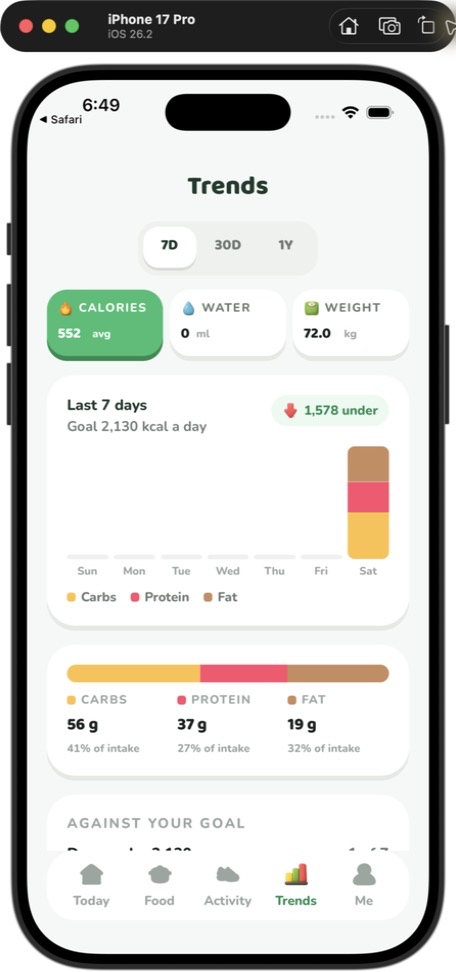
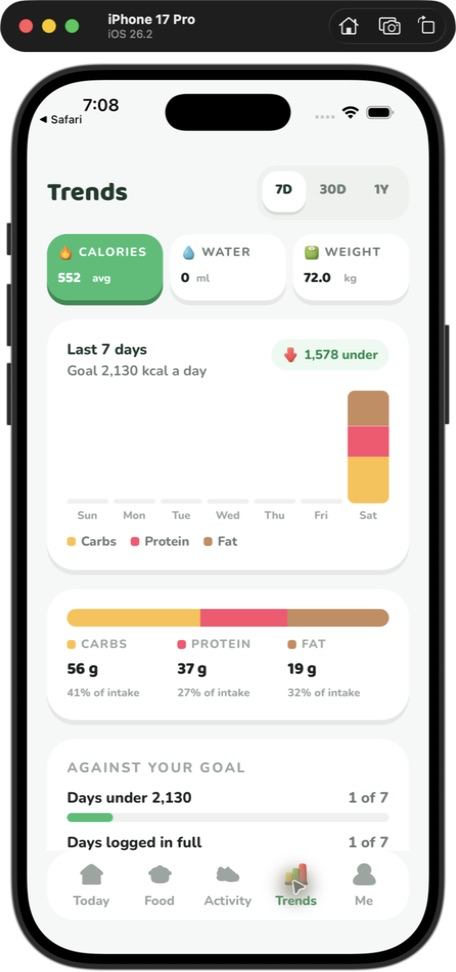
Restore left-aligned root page titles

diff --git a/apps/mobile/src/features/shared/ScreenTitle.tsx b/apps/mobile/src/features/shared/ScreenTitle.tsx
@@ -1,5 +1,5 @@
-import { type ReactNode, useCallback, useState } from 'react'
-import { type LayoutChangeEvent, View } from 'react-native'
+import type { ReactNode } from 'react'
+import { View } from 'react-native'
 
 import { cn, Text } from '@/ui'
 
@@ -23,44 +23,24 @@ export type ScreenTitleProps = {
 /**
  * The title row at the top of a root screen.
  *
- * `AppBar` is the pushed-screen equivalent: it carries a back button, while a
- * root screen has neither and uses a size larger. Both centre the title against
- * the screen, not merely the room left between their controls.
+ * `AppBar` is the pushed-screen equivalent: it centres its title and carries a
+ * back button. A root screen has neither, so its larger title stays left aligned.
  */
 export function ScreenTitle({ title, leading, trailing, className }: ScreenTitleProps) {
-  const [leadingWidth, setLeadingWidth] = useState(0)
-  const [trailingWidth, setTrailingWidth] = useState(0)
-  const sideWidth = Math.max(leadingWidth, trailingWidth)
-
-  const measureLeading = useCallback((event: LayoutChangeEvent) => {
-    setLeadingWidth(event.nativeEvent.layout.width)
-  }, [])
-  const measureTrailing = useCallback((event: LayoutChangeEvent) => {
-    setTrailingWidth(event.nativeEvent.layout.width)
-  }, [])
-
   return (
-    <View className={cn('flex-row items-center gap-md pt-1', className)} accessibilityRole="header">
-      <View
-        testID="screen-title-leading-slot"
-        style={{ minWidth: sideWidth }}
-        className="items-start"
-      >
-        {leading ? (
-          <View testID="screen-title-leading-measure" onLayout={measureLeading}>
-            {leading}
-          </View>
-        ) : null}
-      </View>
+    <View
+      className={cn('flex-row items-center justify-between gap-md pt-1', className)}
+      accessibilityRole="header"
+    >
+      {leading}
       {/*
-        Shrinks rather than ellipsises, and centres within symmetric side slots.
+        Shrinks rather than ellipsises.
 
-        The wider control decides BOTH slot widths, so a search button or streak
-        pill cannot push the title away from the screen's true centre. What goes
-        in here is sometimes a date. "8月17日 周一" at the largest Dynamic Type
-        setting did not fit and came back as "8月17日…", which is a title that has
-        stopped saying which day it is about. A point or two smaller is legible;
-        a truncated date is not.
+        The title shares its row with a streak pill and a view toggle, and what
+        goes in it is sometimes a date. "8月17日 周一" at the largest Dynamic Type
+        setting did not fit and came back as "8月17日…", which is a title that
+        has stopped saying which day it is about. A point or two smaller is
+        legible; a truncated date is not.
 
         Safe beside `adjustsFontSizeToFit` because `Text` deliberately sets no
         `lineHeight` when it sees that prop — the React Native bug `StatTile`
@@ -68,24 +48,14 @@ export function ScreenTitle({ title, leading, trailing, className }: ScreenTitle
       */}
       <Text
         variant="screenTitle"
-        className="min-w-0 flex-1 text-center"
+        className="flex-1 text-left"
         numberOfLines={1}
         adjustsFontSizeToFit
         minimumFontScale={0.85}
       >
         {title}
       </Text>
-      <View
-        testID="screen-title-trailing-slot"
-        style={{ minWidth: sideWidth }}
-        className="items-end"
-      >
-        {trailing ? (
-          <View testID="screen-title-trailing-measure" onLayout={measureTrailing}>
-            {trailing}
-          </View>
-        ) : null}
-      </View>
+      {trailing}
     </View>
   )
 }

diff --git a/apps/mobile/app/(tabs)/trends.tsx b/apps/mobile/app/(tabs)/trends.tsx
@@ -66,31 +66,36 @@ export default function TrendsScreen() {
 
   return (
     <Screen>
-      <ScreenTitle title={t('progress:title')} />
-      <SegmentedControl
-        options={TREND_RANGES.map((value) => ({
-          value,
-          label: t(RANGE_KEY[value]),
-        }))}
-        value={range}
-        /**
-         * A free account sees the week and nothing else. The control keeps all
-         * three segments and refuses the two it cannot serve rather than hiding
-         * them: a hidden option is a feature nobody knows they are missing, and
-         * a greyed-out one gives them nowhere to go.
-         *
-         * Seven days is not an arbitrary slice: the strip on Today is a week and
-         * the review is a week, so a free user is shown the week and offered the
-         * shape only a month or a year can carry.
-         */
-        onChange={(next) => {
-          if (next !== '7d' && !requirePro('trend_range')) return
-          setRange(next)
-        }}
-        accessibilityLabel={t('progress:range.label')}
-        // Its own centred row leaves the screen title genuinely centred while
-        // keeping all three translated labels enough room to remain legible.
-        className="w-[180px] self-center"
+      <ScreenTitle
+        title={t('progress:title')}
+        trailing={
+          <SegmentedControl
+            options={TREND_RANGES.map((value) => ({
+              value,
+              label: t(RANGE_KEY[value]),
+            }))}
+            value={range}
+            /**
+             * A free account sees the week and nothing else. The control keeps
+             * all three segments and refuses the two it cannot serve rather than
+             * hiding them: a hidden option is a feature nobody knows they are
+             * missing, and a greyed-out one gives them nowhere to go.
+             *
+             * Seven days is not an arbitrary slice: the strip on Today is a week
+             * and the review is a week, so a free user is shown the week and
+             * offered the shape only a month or a year can carry.
+             */
+            onChange={(next) => {
+              if (next !== '7d' && !requirePro('trend_range')) return
+              setRange(next)
+            }}
+            accessibilityLabel={t('progress:range.label')}
+            // Sized rather than left to grow: the control and title share a
+            // row, and a segmented control that takes what it needs would push
+            // "Trends" to an ellipsis on a narrow phone.
+            className="w-[152px]"
+          />
+        }
       />
 
       {/* The same gate as the panel below. The tiles are the tab control so

diff --git a/apps/mobile/src/features/shared/__tests__/screen-title.test.tsx b/apps/mobile/src/features/shared/__tests__/screen-title.test.tsx
@@ -1,9 +1,9 @@
 import { View } from 'react-native'
 
-import { act, render, screen } from '@/test-utils'
+import { render, screen } from '@/test-utils'
 import { ScreenTitle } from '../ScreenTitle'
 
-it('reserves the wider control width on both sides of a root title', async () => {
+it('keeps a root title left aligned beside its controls', async () => {
   await render(
     <ScreenTitle
       title="My foods"
@@ -17,15 +17,5 @@ it('reserves the wider control width on both sides of a root title', async () =>
     />,
   )
 
-  await act(() => {
-    screen.getByTestId('screen-title-leading-measure').props.onLayout({
-      nativeEvent: { layout: { width: 44 } },
-    })
-    screen.getByTestId('screen-title-trailing-measure').props.onLayout({
-      nativeEvent: { layout: { width: 96 } },
-    })
-  })
-
-  expect(screen.getByTestId('screen-title-leading-slot')).toHaveStyle({ minWidth: 96 })
-  expect(screen.getByTestId('screen-title-trailing-slot')).toHaveStyle({ minWidth: 96 })
+  expect(screen.getByText('My foods')).toHaveProp('className', expect.stringContaining('text-left'))
 })

diff --git a/README.md b/README.md
@@ -781,12 +781,10 @@ paywalls) and carry a cross. Every pushed page passes that bar through
 trailing control remain visible while the body moves. `AppBar` reserves the
 wider control width on both sides, keeping its one or two-line title centred on
 the screen even when a trailing action is wider than Back. The native header is
-off everywhere. A tab carries a `ScreenTitle` instead, because there is nothing
-behind it to go back to. It uses the same symmetric slots, so root titles stay
-centred beside search, date and status controls too. Wide controls, such as the
-Trends range selector, take a centred row below the title rather than squeezing
-it aside. The two paywall routes share `PaywallOffer`, whose
-centred wordmark and close control are likewise fixed outside its `Screen`.
+off everywhere. A tab carries a left-aligned `ScreenTitle` instead, because
+there is nothing behind it to go back to and the larger root heading establishes
+the page hierarchy. The two paywall routes share `PaywallOffer`, whose centred
+wordmark and close control are likewise fixed outside its `Screen`.
 
 The logged-food page is the full-bleed exception. `CollapsingAppBar` keeps one
 set of controls fixed over the hero image, then fades in the canvas and the
